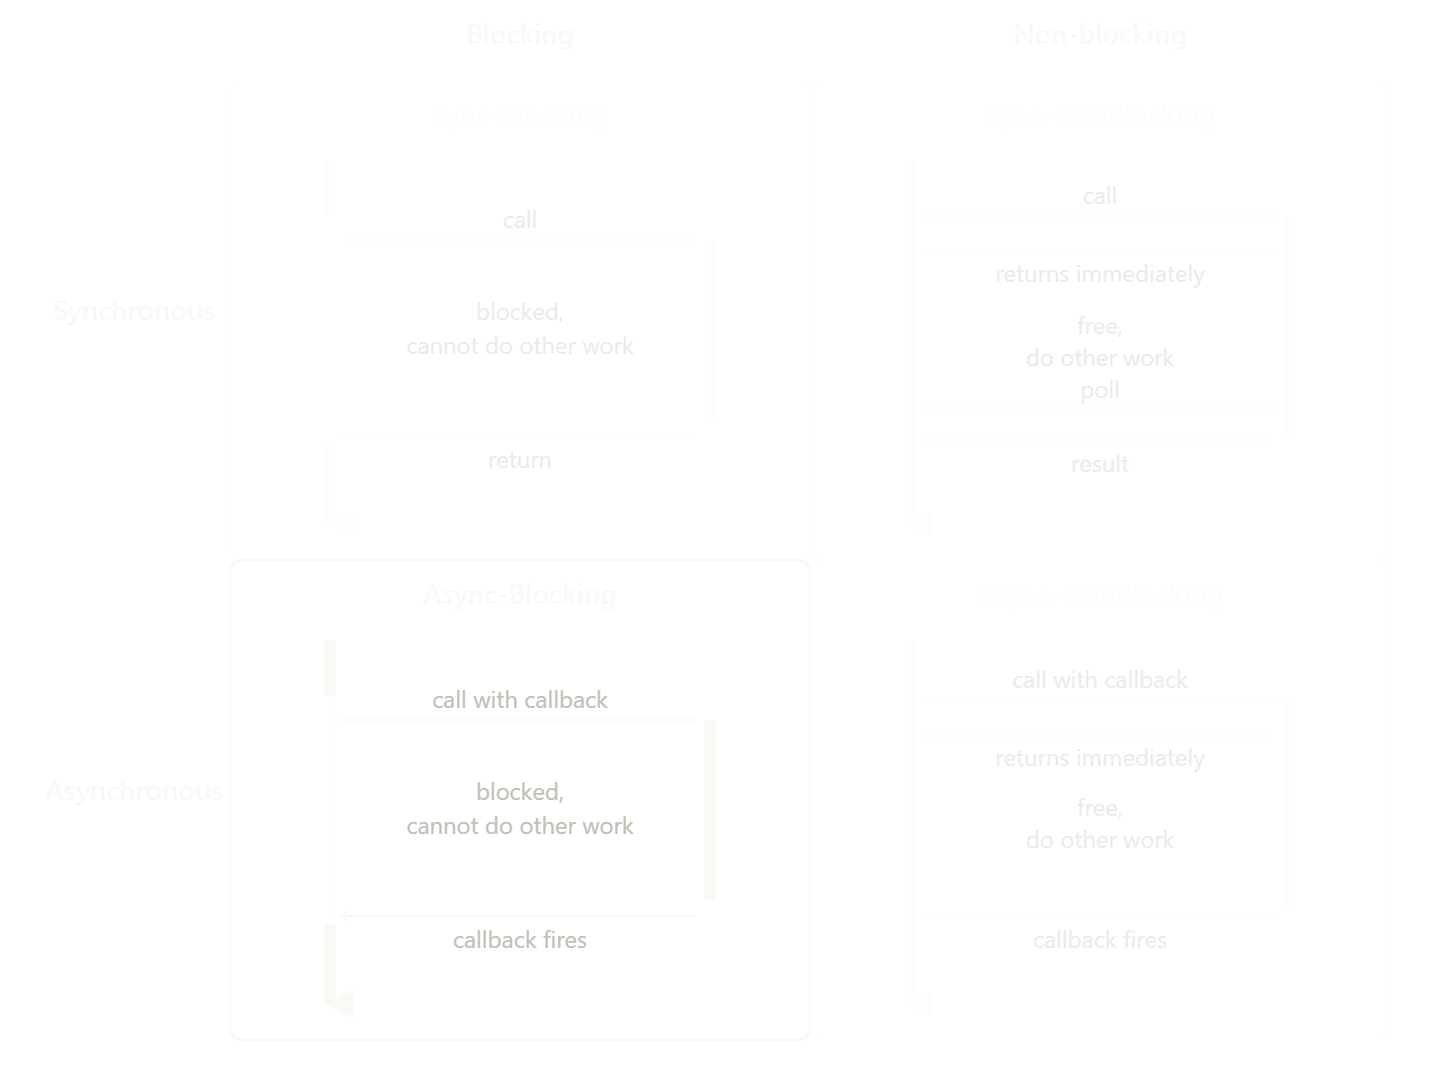
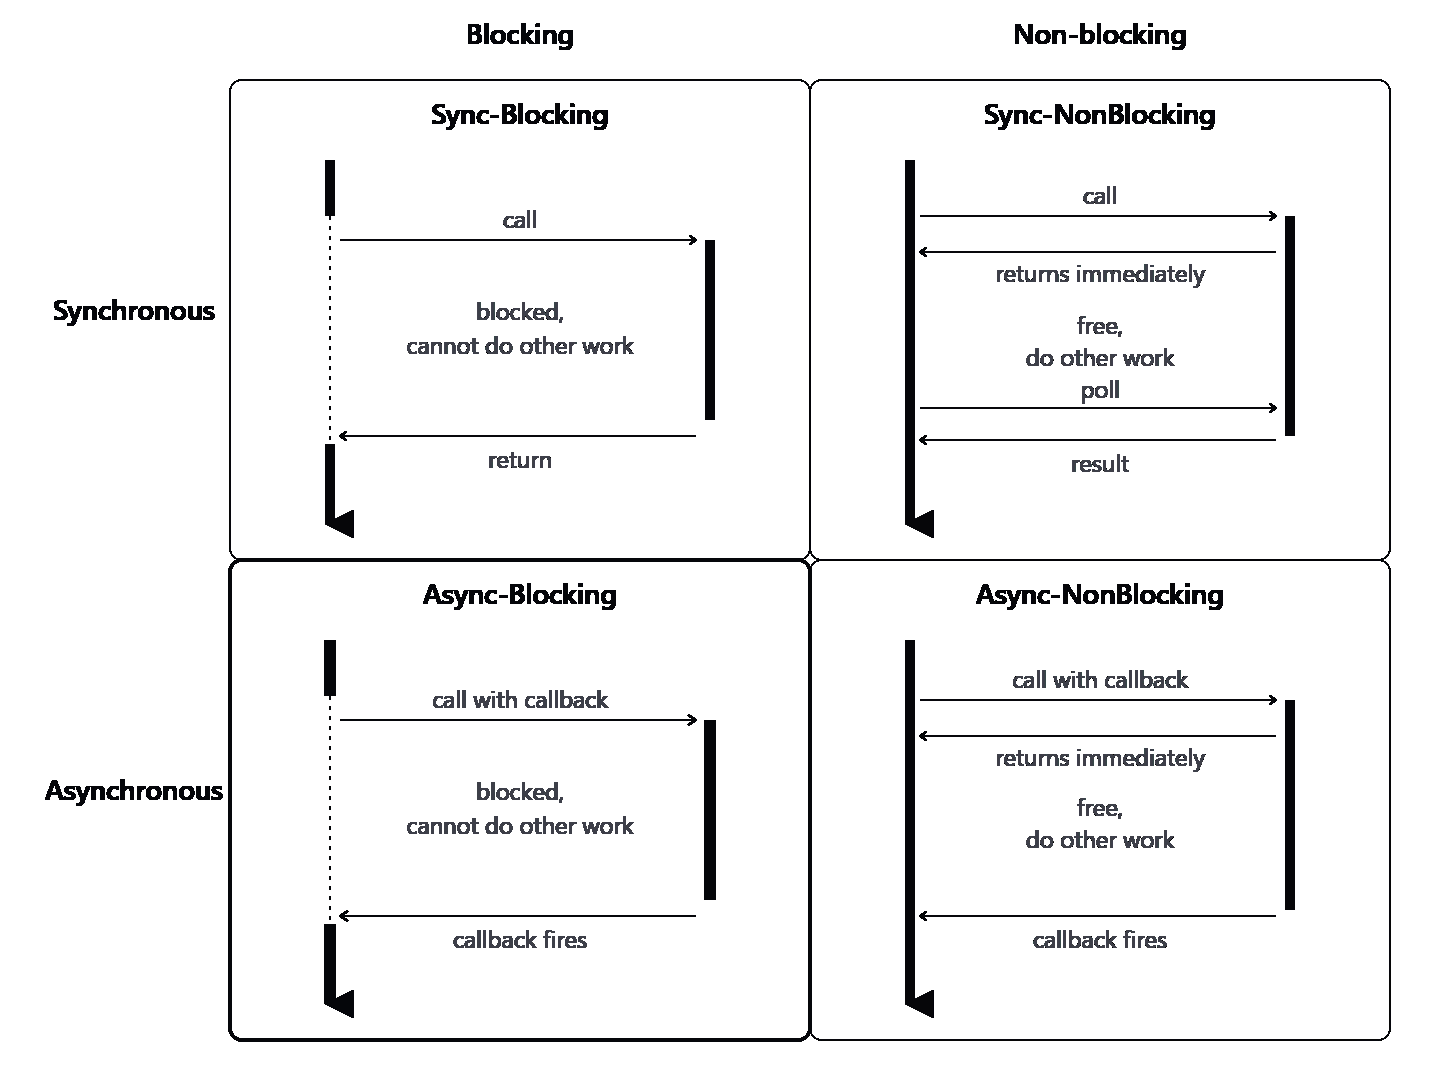
Invert PNG colors (dark text on white); drop SVG replacement

diff --git a/docs/Study/Simulation/fundamentals/sync_async_io/sync_async_io.md b/docs/Study/Simulation/fundamentals/sync_async_io/sync_async_io.md
@@ -1,6 +1,6 @@
 # **Synchronous vs Asynchronous I/O**
 
-![Sync vs Async I/O quadrants](diagram.svg)
+![Sync vs Async I/O quadrants](<image (3).png>)
 
 A concept that comes up constantly in evaluation, simulation, and network/device I/O. Synchronous vs Asynchronous is frequently confused with Blocking vs Non-Blocking, but they are in fact **two independent axes**, and all four combinations are valid.
 
